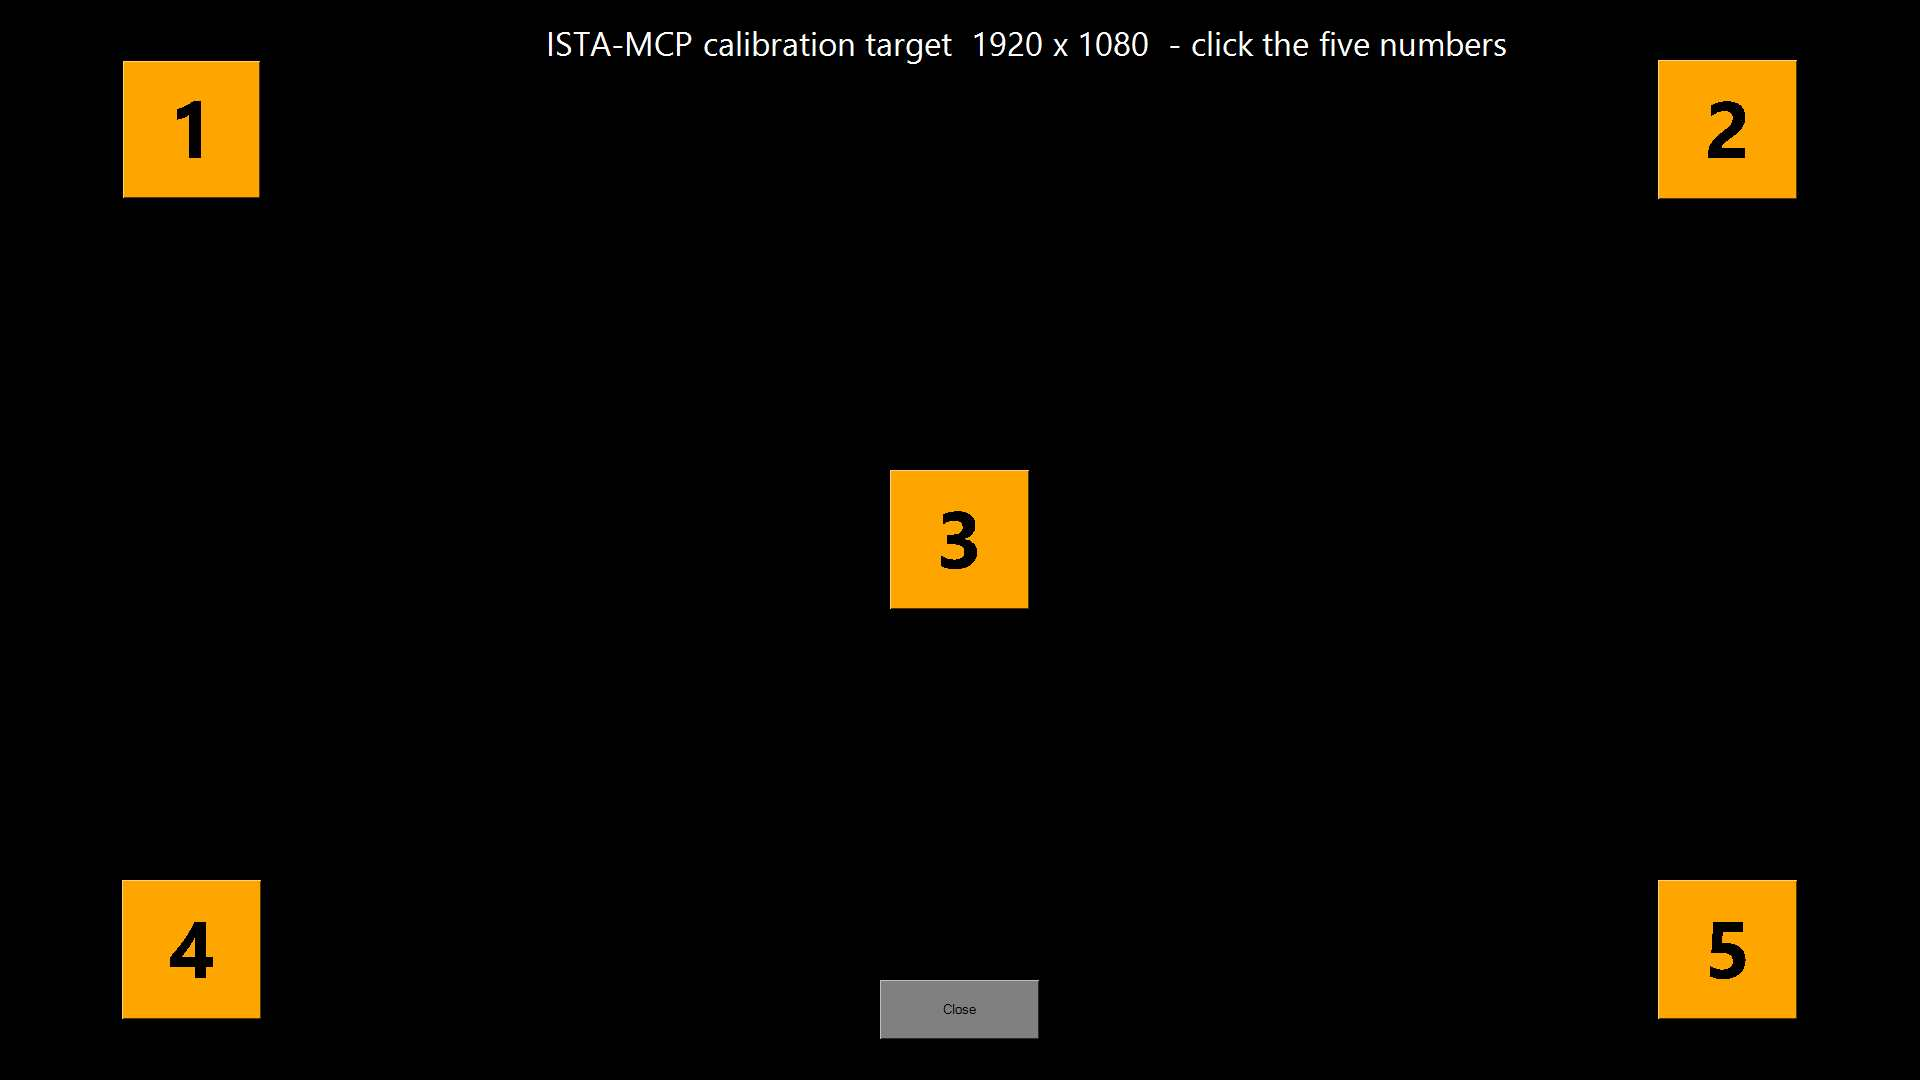
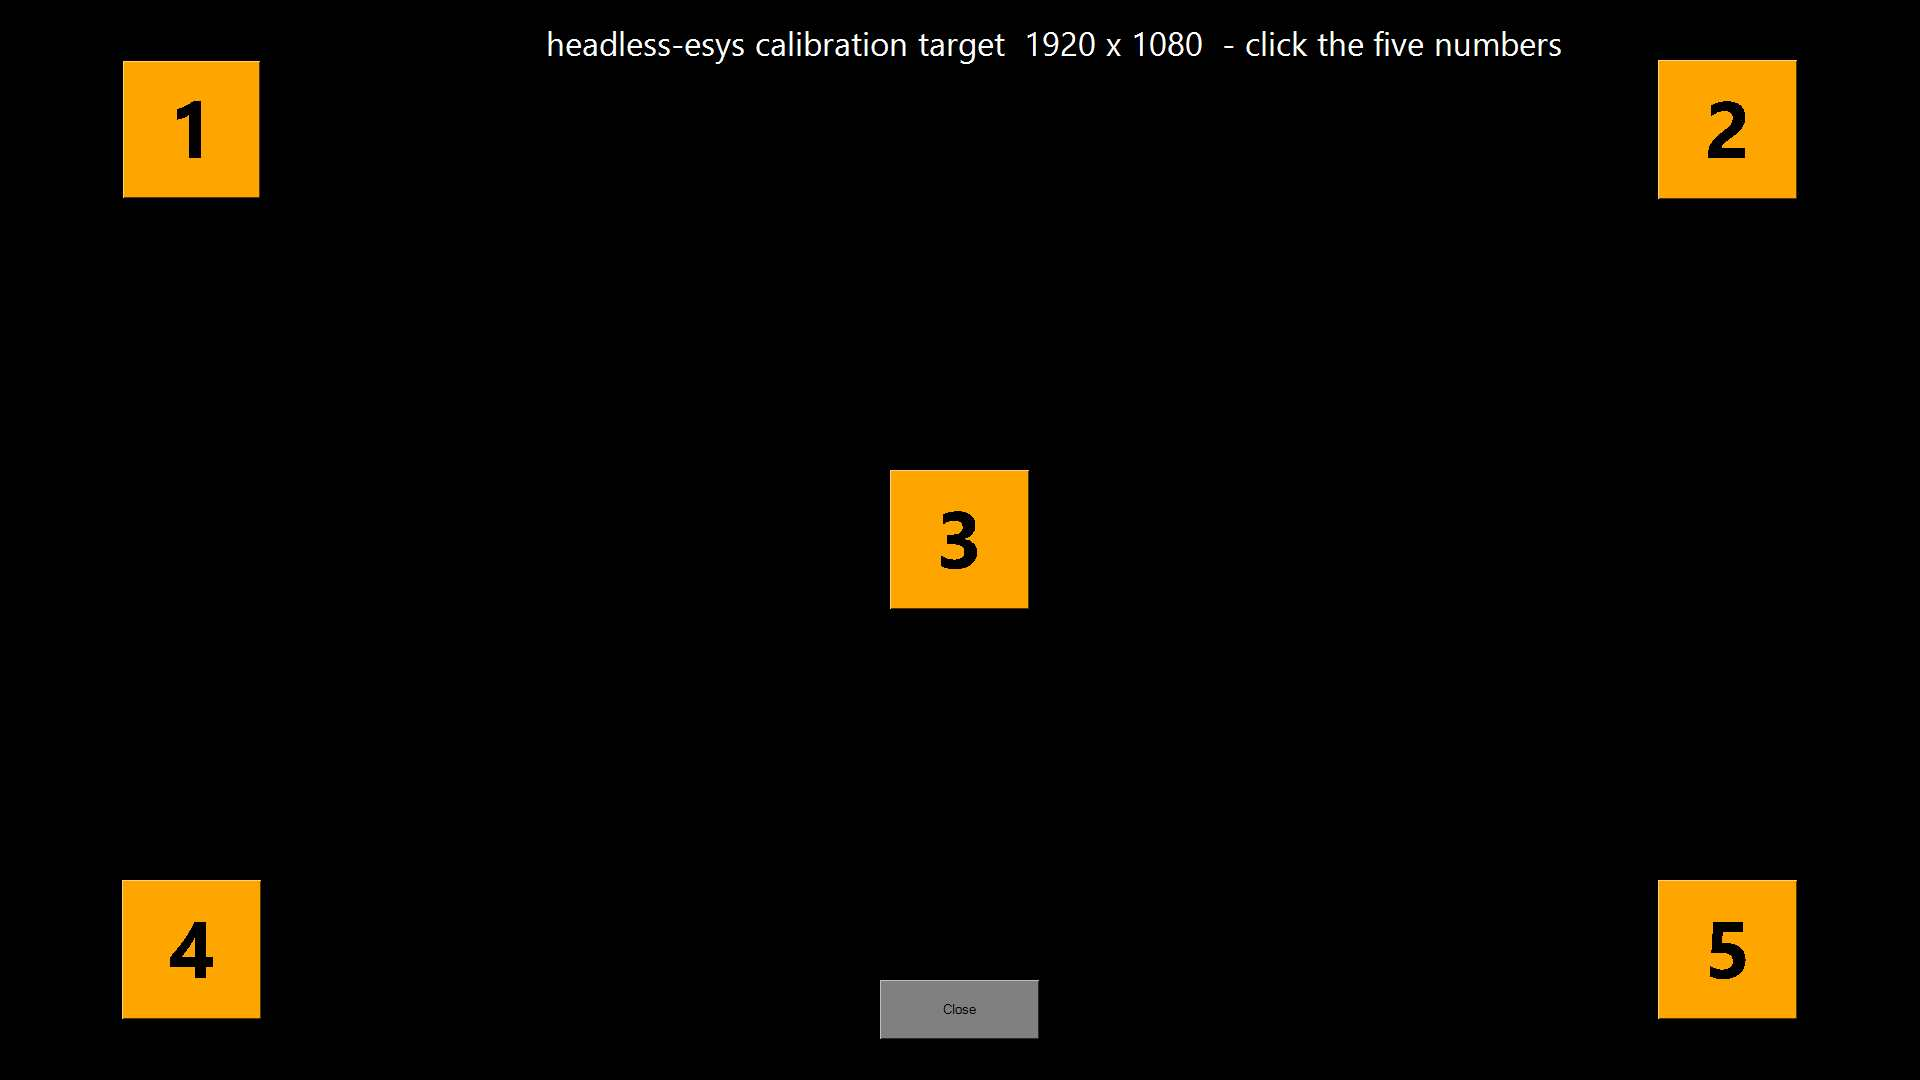
CI fix for PowerShell parse; calibration image; cars table; support link

Changed region(s): [[0.2812, 0.0306, 0.8125, 0.0611]]

diff --git a/README.md b/README.md
@@ -142,6 +142,23 @@ Input tools exist only when `ISTA_MCP_ALLOW_INPUT=1` is set. Every input tool's 
 text carries the rule: read and navigate freely, never a write to the car without the
 human's go.
 
+## Cars it has run on
+
+One so far, yours could be next: [docs/CARS.md](docs/CARS.md). One row per car, no VIN,
+say what you coded and whether it verified.
+
+## Support the project
+
+This is one person's evenings. If it saved you a trip to a coder or an afternoon of
+clicking, a coffee helps:
+
+[![Buy Me a Coffee](https://img.shields.io/badge/Buy%20me%20a%20coffee-%E2%98%95-ffdd00?style=flat-square)](https://buymeacoffee.com/headlessesys)
+
+The goal is a small website with the guide, a searchable cheat-sheet index, and
+per-car pages, plus the next tools: a plug-in fault check that messages you, a coding
+profile you re-apply after a software update, and ISTA+ test plans driven end to end.
+Stars and shared cheat sheets help just as much.
+
 ## Documentation
 
 - [docs/GUIDE.md](docs/GUIDE.md): the hobbyist coding guide. UltraAdmin settings,

diff --git a/docs/CARS.md b/docs/CARS.md
@@ -1,0 +1,8 @@
+# Cars this has been used on
+
+Add yours with a pull request: one row, no VIN. "Verified" means the write was read
+back and matched. Software level is the I-step shown in EsysUltra's status bar.
+
+| Car | Year | Engine | Head unit | I-step | What was coded | Verified | Notes |
+|---|---|---|---|---|---|---|---|
+| G20 320d saloon | 2018 | B47 diesel | ID7 (HU_MGU) | S18A-18-11-522 | Start/Stop memory; camera disclaimer + timer off; HUD distance info; 5-flash indicators; full SMS; sailing in Eco Pro; colder A/C | yes | Fob window close already active; `VAM_HORN_AT_SECURE` absent from CAFD 00007083_031_020_109; no KAFAS so no TLA/aSLA |
